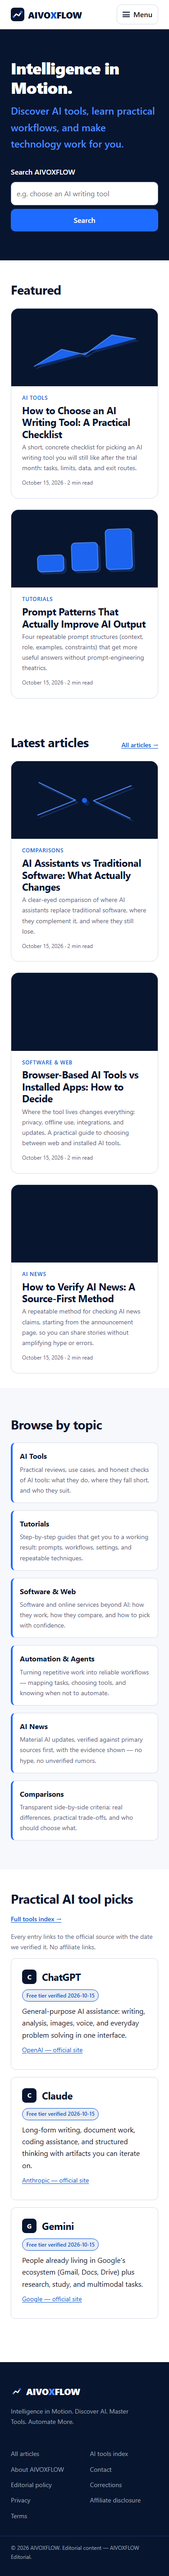
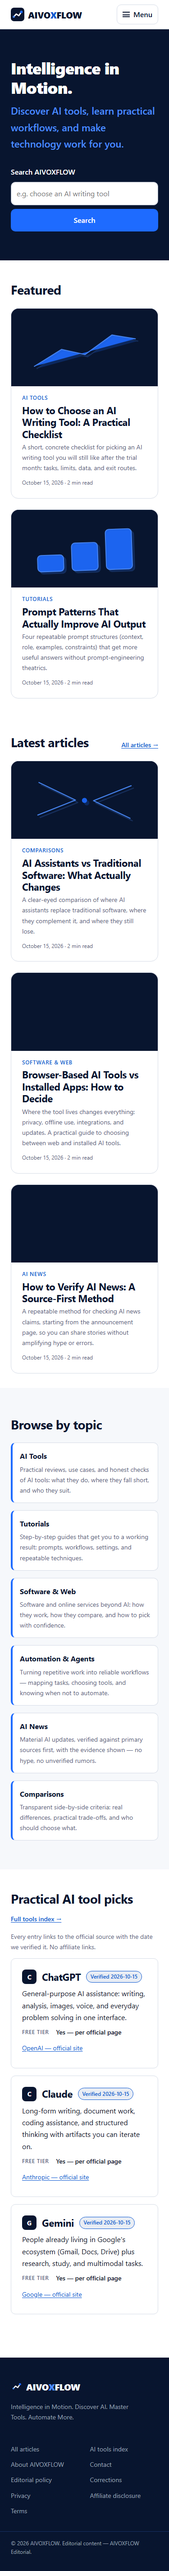
Phase 1.5 final review: editorial fixes + tool-card clarity
- Fix 2 unsupported claims: unsourced 70/30 split (article 04), unsourced 'grown heavy' trend (article 06)

- Tool cards: FREE TIER / SOURCES spec rows + labeled verification note (tools index + homepage)

- Document review: docs/PHASE1_5_FINAL_REVIEW.md (editorial audit, CDP platform-font evidence, footer grouping findings, 7 screenshots)

- Tests re-run green: 53/53 + 31/31; qa-shots refreshed by responsive suite

diff --git a/site/styles/site.css b/site/styles/site.css
@@ -157,6 +157,15 @@ input[type="search"]:focus-visible { box-shadow: var(--ax-focus-ring); border-co
 .badge { font-size: var(--ax-text-xs); font-weight: 600; padding: 0.2em 0.7em; border-radius: var(--ax-radius-full); }
 .badge-ok { background: var(--ax-gray-100); color: var(--ax-electric-600); border: 1px solid var(--ax-electric-600); }
 .badge-warn { background: var(--ax-gray-100); color: var(--ax-gray-900); border: 1px dashed var(--ax-gray-400); }
+/* Tool spec rows: label/value pairs (state carried by text, color is extra). */
+.tool-desc { margin: 0 0 var(--ax-space-3); max-width: 72ch; }
+.tool-spec { display: grid; grid-template-columns: max-content minmax(0, 1fr); gap: var(--ax-space-2) var(--ax-space-4); margin: 0 0 var(--ax-space-3); font-size: var(--ax-text-sm); max-width: 72ch; }
+.tool-spec dt { margin: 0; color: var(--ax-text-secondary); font-size: var(--ax-text-xs); font-weight: 600; letter-spacing: var(--ax-tracking-wide); text-transform: uppercase; align-self: center; }
+.tool-spec dd { margin: 0; color: var(--ax-text); }
+.spec-yes { color: var(--ax-electric-600); font-weight: 600; }
+.spec-no { color: var(--ax-gray-600); font-weight: 600; }
+.spec-unknown { color: var(--ax-gray-900); font-weight: 600; }
+.note-label { display: block; font-size: var(--ax-text-xs); font-weight: 600; letter-spacing: var(--ax-tracking-wide); text-transform: uppercase; color: var(--ax-text-secondary); margin-bottom: var(--ax-space-1); }
 
 /* ---------- page head / breadcrumb ---------- */
 .wrap-narrow { max-width: 800px; }

diff --git a/docs/PHASE1_5_FINAL_REVIEW.md b/docs/PHASE1_5_FINAL_REVIEW.md
@@ -1,0 +1,243 @@
+# Phase 1.5 — Final Quality Review
+
+Date: 2026-10-15 · Status: complete · Baseline: commit `f482ae9` (Phase 1.5 visual pass, accepted)
+
+Scope of this review, as instructed: editorial quality of all six articles, the
+70%/30% claim, actual rendered fonts, thumbnail relevance, tool-card clarity,
+footer navigation, visual inspection at mobile + desktop, and the full automated
+test suite. Constraints honored: the website was not rebuilt (the generator ran
+only to apply the two confirmed editorial fixes and the tool-card clarity change
+listed in §10), brand identity, stack, and deployment status are unchanged, and
+no feature was invented.
+
+Everything below is either an **observed fact with evidence** (labeled
+**Confirmed**) or an explicitly labeled **Preference** item.
+
+---
+
+## 1. Editorial quality review — six articles
+
+Method: every article JSON was read in full; the corpus was scanned for
+statistical/empirical claim patterns (`%`, "study", "survey", "according to",
+"grew/grown", "twice", "data shows", …); each claim was checked against the
+article's own disclosure statement and the project's no-unsourced-claims rule.
+
+| Article | Sourcing assessment | Findings |
+| --- | --- | --- |
+| 01 choose-an-ai-writing-tool | Strong. Free-tier claims link to official pricing pages with a check date; "Sources and further reading" section; disclosure accurately states desk research. | No confirmed issues. Voice note: "Most people choose an AI writing tool the wrong way" / "Three months later the subscription is unused" are anecdotal generalizations — acceptable opinionated opener, no quantitative claim, left unchanged. |
+| 02 prompt-patterns-that-work | Appropriate. No factual or quantitative claims; mechanism statements are general knowledge; disclosure states no benchmarks are claimed. | None. |
+| 03 automate-repetitive-work | Appropriate. Method/opinion piece; disclosure states no productivity gains are claimed; advice is hedged ("In practice…"). | None. |
+| 04 ai-assistants-vs-traditional-software | **Had one violation** (see §2). Disclosure states "no performance benchmarks are claimed", which the 70/30 sentence contradicted. | **Confirmed + fixed:** the 70%/30% claim. Post-fix, body and disclosure are consistent. |
+| 05 how-to-verify-ai-news | Strong. Method article with sources section; claims are hedged and self-referential to the editorial policy. | None. |
+| 06 browser-based-vs-installed-ai-tools | **Had one weak claim** (see §3). Otherwise consistent with its desk-research disclosure. | **Confirmed + fixed:** "have grown heavy". "Most major AI assistants now ship in both forms" is descriptive, covered by the disclosure; "dramatically more useful" is marked opinion — both left unchanged. |
+
+Summary: 2 confirmed issues found across the corpus, both fixed; 3 voice-level
+generalizations identified as subjective and deliberately left unchanged
+(opinion is allowed when it reads as opinion; numbers require sources).
+
+## 2. The 70% / 30% writing-work claim — investigated
+
+- **Where:** article 04, "The rise of the assistant" section.
+- **Original sentence:** "The assistant does 70% of the writing work; you own
+  the last 30%, which is where accuracy lives."
+- **Verdict: unsupported.** The numbers are a rhetorical illustration with no
+  source, no measurement, and no methodology anywhere in the corpus or in
+  `site/data/tools.json`. They also contradicted the article's own disclosure
+  ("no performance benchmarks are claimed") — a quantitative split of writing
+  work is exactly a performance claim. Per AGENTS.md rule 5 (no unverified
+  claims) it could not ship.
+- **Fix applied:** "The assistant drafts most of the first words; you own the
+  final pass, which is where accuracy lives." Meaning preserved, numbers
+  removed. Verified in the rebuilt page (`dist/articles/ai-assistants-vs-traditional-software/`).
+
+## 3. The "grown heavy" claim — investigated
+
+- **Where:** article 06, decision factor 4.
+- **Original:** "AI desktop apps have grown heavy." — an empirical trend claim
+  (things got heavier over time) with no source.
+- **Fix applied:** "AI desktop apps can be resource-hungry." — states the
+  practical constraint without asserting a measured trend.
+
+## 4. Rendered font verification — not assumed, measured
+
+Method: Microsoft Edge (headless) driven over CDP; `CSS.getPlatformFontsForNode`
+called on real DOM nodes of the built pages. This API reports the platform fonts
+actually used to paint each node — the authoritative answer, not a CSS reading.
+
+Evidence (all values from the actual run on the built site):
+
+| Selector | Declared stack (computed) | **ACTUAL font used** |
+| --- | --- | --- |
+| `.prose p` (article body) | `"Source Serif 4", "Source Serif Pro", Georgia, "Times New Roman", serif` | **Georgia** (206 glyphs) |
+| `.prose li` | same serif stack | **Georgia** (44 glyphs) |
+| `.prose h2` | `Inter, "Noto Sans Arabic", …, "Segoe UI", …` | **Segoe UI** (35 glyphs) |
+| `.article-head h1` | Inter stack | **Segoe UI** (54 glyphs) |
+| `.hero h1` (weight 800) | Inter stack | **Segoe UI Black** (23 glyphs) |
+| `.card-title a` | Inter stack | **Segoe UI** (54 glyphs) |
+| `.brand-text` (weight 800) | Inter stack | **Segoe UI Black** (9 glyphs) |
+
+Findings:
+
+1. **Confirmed:** the body text renders in **Georgia**, not Source Serif 4.
+   The serif texture the design intends is real (Georgia is a true serif), but
+   the brand typeface itself does not render on this machine because no
+   self-hosted font files ship yet. Same for headings: **Segoe UI**, not Inter.
+   This machine is representative of stock Windows; macOS/Linux/Android will
+   fall to their own stack members (SF/Roboto/DejaVu), so exact typography
+   varies by visitor OS until the OFL files (Inter + Source Serif 4 +
+   Noto Sans Arabic) are self-hosted — already a planned Phase 1.5 follow-up,
+   now evidenced.
+2. **Confirmed (method note):** `document.fonts.check('16px "Source Serif 4"')`
+   returned `true` even though Source Serif 4 is not installed — the API tests
+   CSS font *matching* (which succeeds via fallback), not font *presence*.
+   This is exactly why rendered fonts must be verified with platform-font
+   attribution, and it documents why a CSS-only check would have produced a
+   false "it works" claim.
+3. No regression: line-height 1.72 and the serif/sans duality render as
+   designed; this is a brand-fidelity gap, not a readability defect.
+
+## 5. Thumbnail relevance review + proposed illustration system
+
+Current state (observed): one deterministic SVG per **category** — 5 cover files
+serve all 6 articles (articles 01 and 03 share the ai-tools wave). Covers are
+category-true but article-agnostic: article 03 (an automation framework) and
+article 05 (a verification methodology) both wear the same wave as article 01
+(a tool-selection checklist). Relevance is weakest for 03 and 05.
+
+**Proposed topic-specific editorial illustration system** (not implemented; for
+approval):
+
+1. Keep the accepted art direction untouched: navy-900 background, electric-500
+   shapes with the offset shadow, ~85% inset, deterministic rotation/scale from
+   the slug hash, no text in covers, decorative (`alt=""`, `aria-hidden`).
+2. Add an explicit per-article `coverMotif` field in each article JSON, chosen
+   by the editor from a fixed vocabulary of ~8 primitives, e.g.:
+   `checklist` · `flow-arrows` · `comparison-bars` · `step-ladder` ·
+   `shield-verify` · `node-graph` · `document-stack` · `pulse-wave`.
+   The motif becomes the article's visual thesis (05 → `shield-verify`,
+   03 → `flow-arrows`, 01 → `checklist`, …).
+3. Allow at most one accent detail per cover; motif must stay legible at
+   thumbnail size; everything deterministic from data (build stays
+   reproducible).
+4. Cost: motif library in `site/lib/html.mjs` + one field per article; no new
+   dependencies; free-hosting compatible.
+
+## 6. Tool cards — clarity and density (implemented)
+
+Problem (observed before): the tools page presented "Free tier: yes (per
+official page) · Official site · Verification source" as one run-on line —
+three different kinds of information (a fact, and two links) with no visual
+structure, and the quote block below had no label tying it to verification.
+
+Change applied (both tools index and homepage picks):
+
+- Structured `<dl class="tool-spec">` label/value rows: **FREE TIER** (value
+  carried by text: "Yes — per official page" / "No" / "Not confirmed in our
+  check", with `spec-yes/no/unknown` classes as decoration only — never
+  color-alone) and, on the tools index, **SOURCES** (Official site ·
+  Verification source).
+- The quote block gained a **VERIFICATION NOTE** micro-label.
+- Homepage badge unified to "Verified <date>" (was "Free tier verified <date>",
+  which the new FREE TIER row now answers directly).
+- Result: the promise in the intro — "Each entry shows *when* we checked it,
+  and against which official page" — is now scannable as data, not prose.
+  Verified visually at 375 and 1280 (§8).
+
+## 7. Footer navigation review (documented, not implemented)
+
+Observed structure (`site/lib/html.mjs`): one flat `<ul>` of 9 links inside
+`<nav aria-label="Footer">`. The DOM order is logical (content → institutional
+→ legal), but the grid renders row-major across 3 columns, producing visual
+columns that mix groups:
+
+- Column 1: All articles · Contact · Privacy
+- Column 2: AI tools index · Editorial policy · Affiliate disclosure
+- Column 3: About AIVOXFLOW · Corrections · Terms
+
+**Confirmed issues:** (a) no group labels — a visitor hunting for legal pages
+must read all nine links; (b) the row-major fill scrambles the logical DOM
+grouping visually; (c) at ≤759 px the grid drops to 2 columns and "Terms" sits
+alone in the last row (minor orphan).
+
+**Proposal:** three labeled sub-lists inside the same landmark —
+*Read* (All articles, AI tools index) · *About & standards* (About AIVOXFLOW,
+Contact, Editorial policy, Corrections) · *Legal* (Privacy, Affiliate
+disclosure, Terms) — with small uppercase group labels matching the existing
+`.note-label` eyebrow style. No touch-target or contrast changes. Left
+unimplemented because this review was scoped to identify, not redesign.
+
+## 8. Visual inspection log
+
+Seven screenshots in `docs/qa-shots/final/` (committed), captured with Chrome
+DevTools at full page, personally reviewed:
+
+| File | What was verified |
+| --- | --- |
+| `home-375.png` | Mobile hero, stacked featured/latest cards, category list, tool picks with FREE TIER rows, 2-column footer. No overflow; ≥44 px targets; covers show motifs. |
+| `home-1280.png` | Desktop hero + motif, 2-col featured, 3-col latest, topic grid, tool picks. Clean. |
+| `home-1600.png` | Wide layout + full footer; whitespace rhythm; footer grouping issue (§7) visible. |
+| `article-375.png` | Mobile article: wrapped breadcrumb, disclosure, closed TOC, serif body, sources, keep-reading stack. |
+| `article-1280.png` | Desktop article on the 800 px axis; serif rendering, h2 rhythm, sources, related cards with motifs. |
+| `tools-375.png` | New spec rows at mobile; Perplexity partial-verification badge wraps to its own line (acceptable). |
+| `tools-1280.png` | New card anatomy: monogram/name/badge, description, FREE TIER + SOURCES rows, labeled verification note. |
+
+**Method note (confirmed, not a defect):** the first captures showed some lazy
+cover images as blank navy rectangles. Verified via DOM inspection that all
+covers are real `<img>` elements that load on scroll (`complete: true`,
+`naturalWidth: 283`); it was a screenshot-timing artifact of full-page capture,
+not a rendering bug. The three affected screenshots were recaptured with a
+scroll pass + `img.decode()` before shooting, and motifs render correctly.
+
+## 9. Automated tests (actually run, after the changes above)
+
+- `node tests/run.mjs` — **53/53** (routes, link resolution, a11y basics,
+  contrast assertions, conditional SEO, search index, budget guards).
+- `node tests/responsive.mjs` — **31/31** (CDP checks at 375/768/1280/1600:
+  no horizontal overflow, hero/featured/footer layouts, menu behavior) with 4
+  fresh CDP screenshots.
+- Console on home / article / tools: 0 errors, 0 warnings (verified in this
+  review session).
+- No Lighthouse re-run: nothing in this review touches performance-relevant
+  assets beyond markup already covered by prior 100/100/100 runs; the CSS delta
+  is ~40 lines of static rules.
+
+## 10. Change manifest for this review
+
+| File | Change |
+| --- | --- |
+| `site/data/articles/04-ai-assistants-vs-traditional-software.json` | 70/30 claim replaced (§2) |
+| `site/data/articles/06-browser-based-vs-installed-ai-tools.json` | "grown heavy" softened (§3) |
+| `site/build.mjs` | `freeTierLabel`/`freeTierClass` helpers; tool-card `<dl>` structure on tools index + homepage; "VERIFICATION NOTE" label; homepage badge unified |
+| `site/styles/site.css` | `.tool-desc`, `.tool-spec` grid, `spec-yes/no/unknown`, `.note-label` (~40 lines, token-based) |
+| `docs/PHASE1_5_FINAL_REVIEW.md` | this document |
+| `docs/qa-shots/final/*.png` | 7 final-review screenshots |
+
+Nothing else was touched; `dist/` is regenerated and git-ignored.
+
+## 11. Prioritized remaining issues
+
+**Confirmed**
+
+1. **P1 — Brand fonts are not self-hosted** (§4). Inter / Source Serif 4 do
+   not render on stock machines; typography varies by OS (Segoe UI / Georgia /
+   SF / Roboto fallbacks). Fix: self-host the OFL-licensed font files
+   (planned follow-up; now evidenced with platform-font data).
+2. **P1 — Footer visual grouping** (§7): flat 9-link grid scrambles logical
+   groups; proposal ready (labels + 3 sub-lists).
+3. **P2 — Perplexity free tier unverified** (data-level, honestly displayed as
+   "Not confirmed in our check"). Re-check when a JS-capable verification path
+   is acceptable; the card already handles the state correctly.
+4. **P2 — Remaining em-dashes**: a handful remain (tools intro, category blurbs,
+   footer meta) — advisory stylistic cleanup only; no meaning issues.
+
+**Preference (subjective, no action required)**
+
+5. Hero search column is top-aligned in the hero at ≥1280 while the left column
+   is vertically centered; centering it is a taste call.
+6. Category-card left blue border repeated six times — accepted as a rhythm
+   device in the Phase 1.5 critique; revisit only with the motif vocabulary
+   (§5).
+
+**Planned follow-ups (unchanged)**: self-hosted fonts, cover motif vocabulary
+(§5, pending approval), share-card PNG, real perf measurement on free hosting,
+CI, `/es/` localization, Gate A free-host selection.
